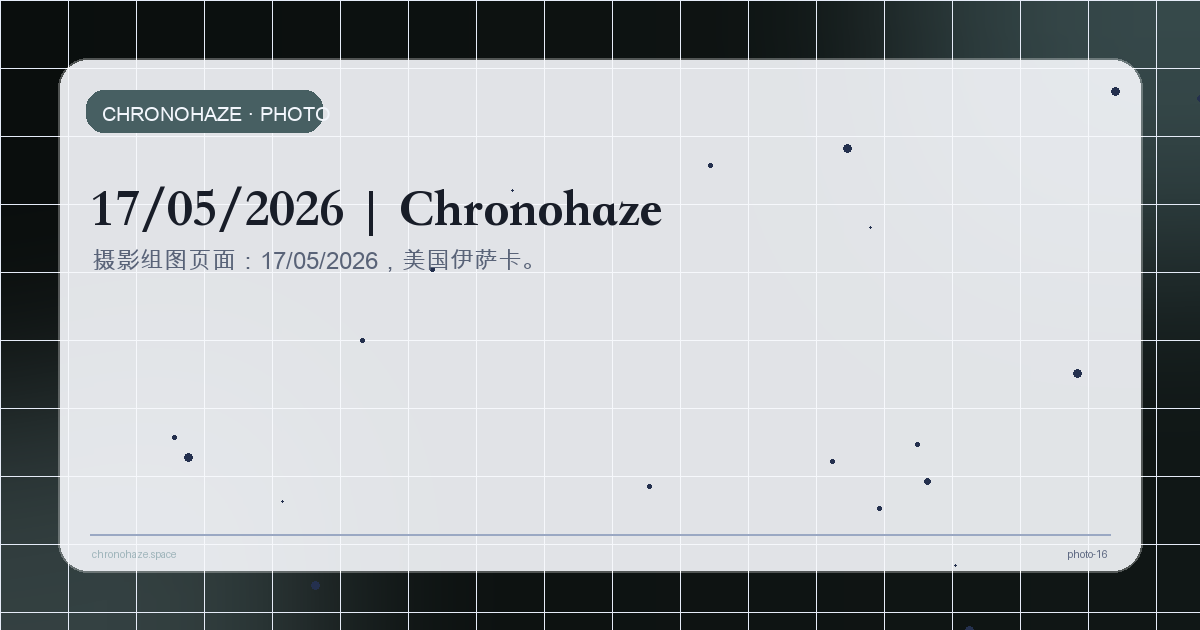
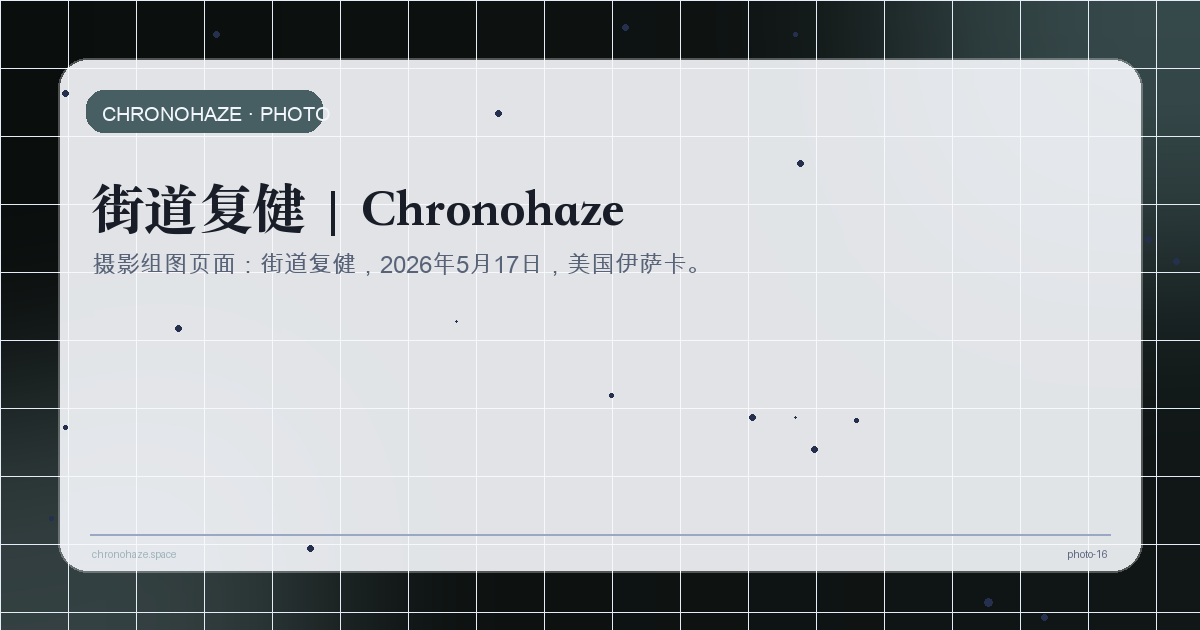
Update May 17 Ithaca photo title and statement

Changed region(s): [[0.0617, 0.2714, 0.555, 0.4524], [0.8017, 0.9952, 0.8325, 1.0]]

diff --git a/photo/photo-16.html b/photo/photo-16.html
@@ -139,17 +139,17 @@
   </script>
   <link rel="icon" type="image/x-icon" href="../assets/favicon.ico?v=4" />
   <link rel="apple-touch-icon" href="../assets/apple-touch-icon.png?v=4" />
-  <title>17/05/2026 | 摄影 | Chronohaze</title>
-  <meta name="description" content="摄影组图页面：17/05/2026，美国伊萨卡。" />
+  <title>街道复健 | 摄影 | Chronohaze</title>
+  <meta name="description" content="摄影组图页面：街道复健，2026年5月17日，美国伊萨卡。" />
   <meta property="og:type" content="article" />
   <meta property="og:site_name" content="Chronohaze" />
-  <meta property="og:title" content="17/05/2026 | Chronohaze" />
-  <meta property="og:description" content="摄影组图页面：17/05/2026，美国伊萨卡。" />
+  <meta property="og:title" content="街道复健 | Chronohaze" />
+  <meta property="og:description" content="摄影组图页面：街道复健，2026年5月17日，美国伊萨卡。" />
   <meta property="og:url" content="https://lyuf09.github.io/chronohaze/photo/photo-16.html" />
   <meta property="og:image" content="https://lyuf09.github.io/chronohaze/assets/og/site/photo-16.png" />
   <meta name="twitter:card" content="summary_large_image" />
-  <meta name="twitter:title" content="17/05/2026 | Chronohaze" />
-  <meta name="twitter:description" content="摄影组图页面：17/05/2026，美国伊萨卡。" />
+  <meta name="twitter:title" content="街道复健 | Chronohaze" />
+  <meta name="twitter:description" content="摄影组图页面：街道复健，2026年5月17日，美国伊萨卡。" />
   <meta name="twitter:image" content="https://lyuf09.github.io/chronohaze/assets/og/site/photo-16.png" />
   <link rel="canonical" href="https://lyuf09.github.io/chronohaze/photo/photo-16.html" />
 
@@ -221,14 +221,18 @@
 
     <main class="main">
       <article class="article photo-detail-article">
-        <h1>17/05/2026</h1>
+        <h1 data-copy-en="Street Rehabilitation" data-copy-zh="街道复健">街道复健</h1>
         <p class="article-meta">美国伊萨卡 · 2026年</p>
         <section class="photo-detail-statement" aria-label="Series statement">
           <div data-lang-block="zh">
-            <p>这组照片拍摄于美国伊萨卡，时间是2026年5月17日。五月的树影、湖水、街道、窗与桥在一天的行走里被慢慢收集起来。画面在植物、建筑和水面之间切换，像一组关于抵达后的继续漫游：没有固定路线，只保留光线经过城市时留下的层次。</p>
+            <p>这组照片拍摄于上一组之后的第二天。我去了伊萨卡 downtown 的 Alley Cat Cafe，在那里坐了几个小时，做了一些科研也处理了一点混音。离开咖啡馆后我在附近走了走，又在回家的路上继续拍了几张。</p>
+            <p>那段时间我已经有一阵子没有真正出门，也很少和人交流。坐在咖啡馆里时，连向店员询问一件很小的事情都让我犹豫很久，后来只是为了避开一次简单的开口，我直接去了另一家店（自闭症又来了😭</p>
+            <p>所以这些照片不只是 downtown 的街道、窗户、树影和回家路上的光。它们更像是一次缓慢的恢复，比如练习坐在人群里，练习说话，练习重新把自己放回一个有声音、有店员、有陌生人经过的下午。</p>
           </div>
           <div data-lang-block="en">
-            <p>This series was made in Ithaca, United States, on May 17, 2026. Tree shadows, water, streets, windows, and bridges are gathered through a day of walking. The images move between plants, architecture, and reflective surfaces, keeping the feeling of continuing to wander after arrival: no fixed route, only the layers left by light as it passes through the city.</p>
+            <p>This series was made the day after the previous one. I went to Alley Cat Cafe in downtown Ithaca, spent several hours there working on research and mixing music, then walked around the neighborhood and continued taking photographs on my way home.</p>
+            <p>At that time, I had spent a long stretch mostly indoors, with very little contact with other people. Even asking the staff a small, ordinary question felt unexpectedly difficult; I found myself avoiding a simple sentence and going somewhere else instead. The slight hesitation, awkwardness, and stuttering made me notice a thin distance between myself and the outside world.</p>
+            <p>These images are therefore not only about downtown streets, windows, trees, and the light on my way home. They are about a slow return: practicing sitting among people, practicing speech, and learning to place myself again inside an afternoon filled with voices, strangers, and movement.</p>
           </div>
         </section>
         <div class="photo-detail-gallery">

diff --git a/search.html b/search.html
@@ -217,7 +217,7 @@
   "generated_at": "2026-05-17",
   "items": [
     {
-      "title": "五月十七日的伊萨卡",
+      "title": "街道复健",
       "url": "photo/photo-16.html",
       "section": "Photography",
       "date": "17/05/2026",
@@ -227,7 +227,7 @@
       ],
       "sort": 20260517,
       "scope": "photo",
-      "content": "chronohaze.space 主页 数学 摄影 音乐 CV 17/05/2026 美国伊萨卡 · 2026年 五月十七日的伊萨卡 Ithaca, May 17 2026年5月17日 美国伊萨卡 树影 湖水 街道 窗 桥 植物 建筑 水面 光线 返回摄影栏目 chronohaze.space"
+      "content": "chronohaze.space 主页 数学 摄影 音乐 CV 街道复健 Street Rehabilitation 17/05/2026 美国伊萨卡 · 2026年 2026年5月17日 伊萨卡 downtown Alley Cat Cafe 科研 混音 街道 窗户 树影 回家路上的光 人群 说话 陌生人 下午 返回摄影栏目 chronohaze.space"
     },
     {
       "title": "未成晴日",

diff --git a/photography.html b/photography.html
@@ -255,7 +255,7 @@
 <img alt="摄影系列预览图：17/05/2026 — 美国伊萨卡 · 2026年" decoding="async" height="2592" loading="lazy" sizes="(max-width: 640px) 92vw, (max-width: 980px) 46vw, 29vw" src="assets/images/wix/ithaca-20260517-01-960.webp" width="1728"/>
 </picture>
 <div class="photo-meta">
-<p class="photo-title" data-copy-en="Ithaca, May 17" data-copy-zh="五月十七日的伊萨卡">五月十七日的伊萨卡</p>
+<p class="photo-title" data-copy-en="Street Rehabilitation" data-copy-zh="街道复健">街道复健</p>
 <p class="photo-date" data-copy-en="17/05/2026" data-copy-zh="17/05/2026">17/05/2026</p>
 <p class="photo-subtitle" data-copy-en="Read More" data-copy-zh="阅读全文">阅读全文</p>
 </div>
